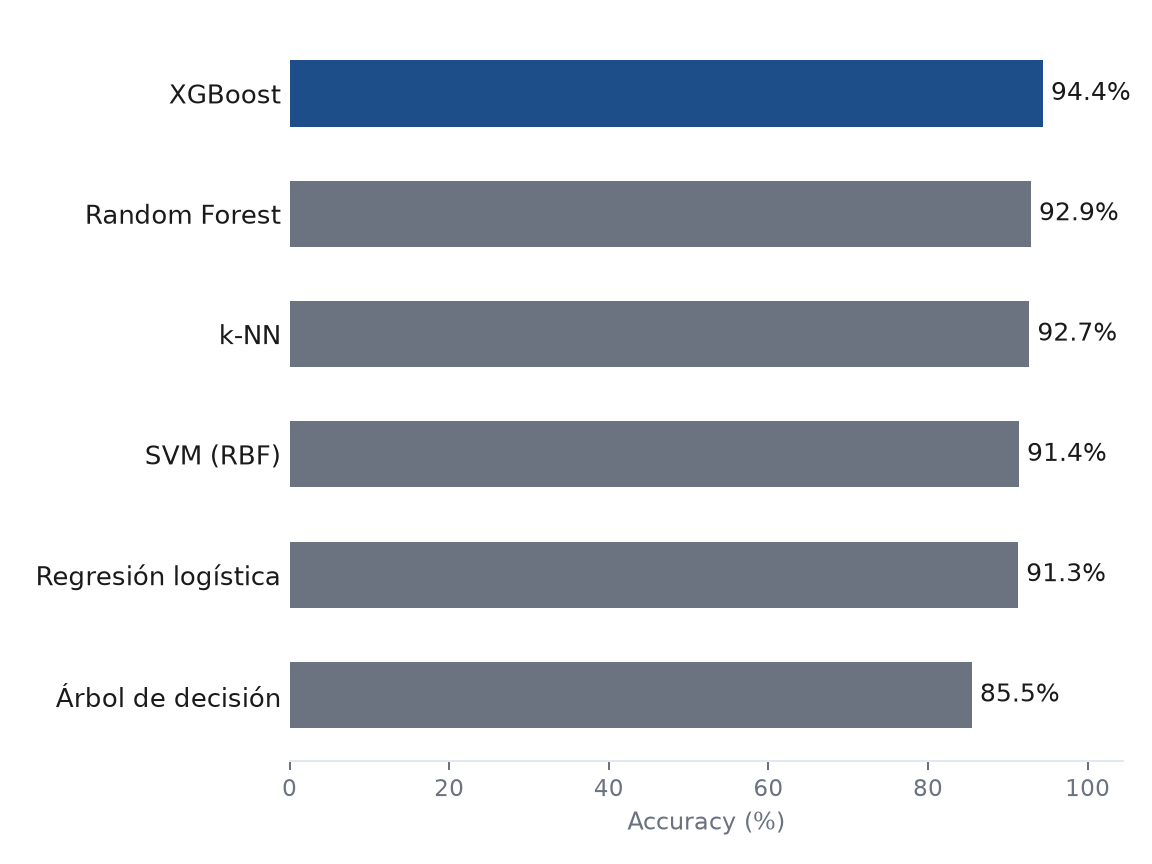
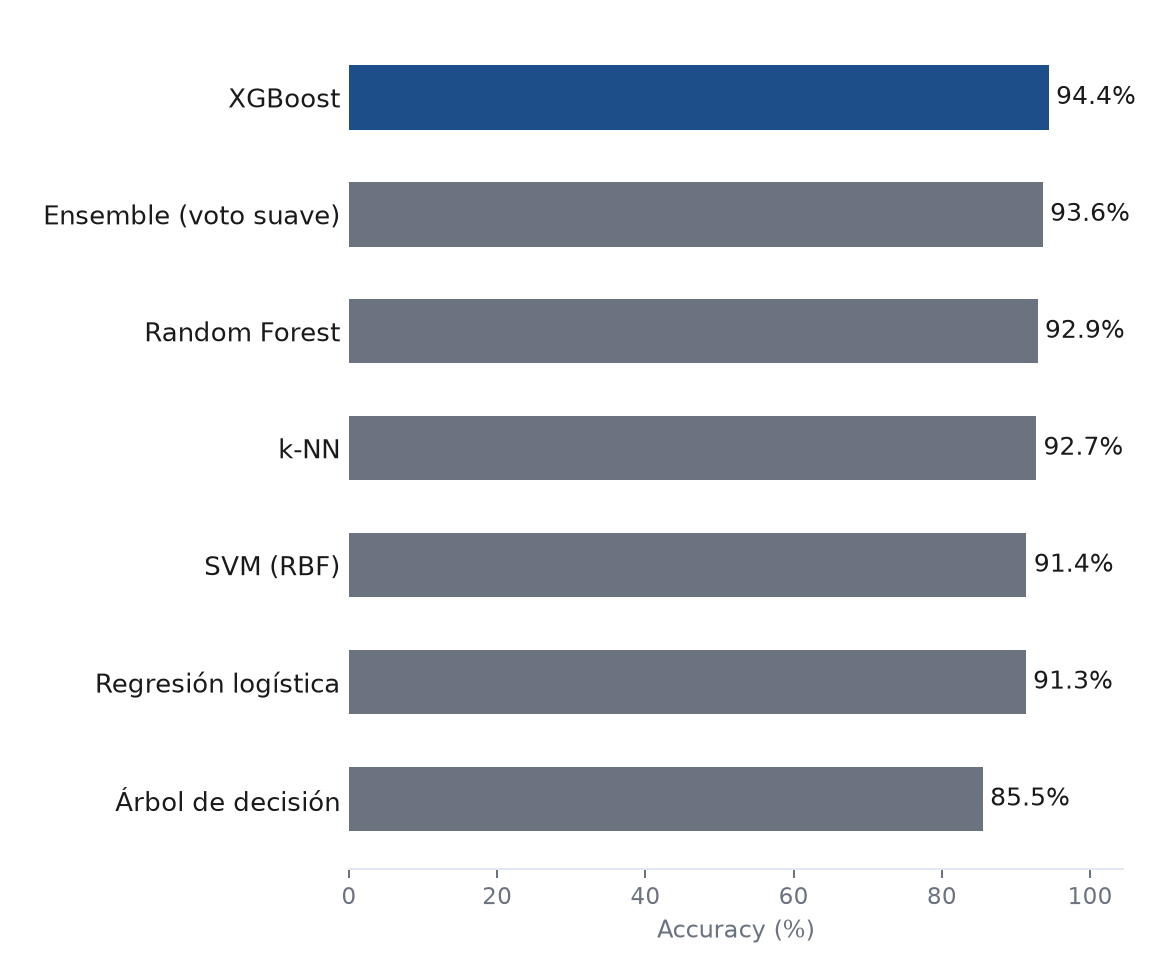
feat: add metric interpretation and ensemble analysis

diff --git a/posts/clasificacion-histologia-colorrectal/crc-histologia.css b/posts/clasificacion-histologia-colorrectal/crc-histologia.css
@@ -394,6 +394,38 @@
   color: var(--crc-body);
 }
 
+/* ---------- Definiciones de métricas ---------- */
+
+.crc-metric-defs {
+  display: grid;
+  grid-template-columns: repeat(4, 1fr);
+  gap: 0.8rem;
+  max-width: 640px;
+  margin: 0 auto 2.5rem;
+}
+
+.crc-metric-def {
+  padding: 0.7rem 0.6rem;
+  background: var(--crc-surface);
+  border: 1px solid var(--crc-line);
+  border-radius: 8px;
+}
+
+.crc-metric-def__term {
+  display: block;
+  font-size: 0.72rem;
+  font-weight: 600;
+  color: var(--crc-blue);
+  margin-bottom: 0.25rem;
+}
+
+.crc-metric-def p {
+  font-size: 0.8rem;
+  line-height: 1.5;
+  color: var(--crc-body);
+  margin: 0;
+}
+
 /* ---------- Lo importante ---------- */
 
 .crc-conclusions {
@@ -448,7 +480,7 @@
 
 .crc-next-steps {
   display: grid;
-  grid-template-columns: repeat(3, 1fr);
+  grid-template-columns: repeat(2, 1fr);
   gap: 1.2rem;
   max-width: 860px;
   margin: 0 auto 2rem;
@@ -484,7 +516,8 @@
     row-gap: 1.3rem;
   }
 
-  .crc-switcher__metrics {
+  .crc-switcher__metrics,
+  .crc-metric-defs {
     grid-template-columns: repeat(2, 1fr);
   }
 

diff --git a/posts/clasificacion-histologia-colorrectal/crc-metrics.js b/posts/clasificacion-histologia-colorrectal/crc-metrics.js
@@ -11,6 +11,15 @@ const CRC_METRICS = {
       "f1_macro": 0.9442
     },
     {
+      "id": "ensemble",
+      "label": "Ensemble (voto suave)",
+      "description": "Promedia las probabilidades de XGBoost, Random Forest, SVM (RBF) y regresión logística, y elige la clase con mayor probabilidad promedio. Combina modelos que cometen errores distintos entre sí.",
+      "accuracy": 0.936,
+      "precision_macro": 0.9372,
+      "recall_macro": 0.936,
+      "f1_macro": 0.936
+    },
+    {
       "id": "rf",
       "label": "Random Forest",
       "description": "Combina muchos árboles de decisión entrenados sobre subconjuntos distintos de datos y características. Suele generalizar mejor que un árbol individual.",

diff --git a/posts/clasificacion-histologia-colorrectal/analysis/train_models.py b/posts/clasificacion-histologia-colorrectal/analysis/train_models.py
@@ -51,6 +51,10 @@ from matplotlib.colors import LinearSegmentedColormap
 RANDOM_STATE = 42
 TEST_SIZE = 0.20
 
+# Override manual: si el ensemble gana pero la mejora es marginal, fijar en "xgb"
+# para mantener la matriz de confusión y el pie de figura existentes.
+CONFUSION_MATRIX_MODEL_ID: str | None = None  # None = usar best_id automáticamente
+
 DATA_ROOT = (
     Path.home()
     / ".cache"
@@ -110,6 +114,12 @@ MODEL_DESCRIPTIONS = {
         "XGBoost",
         "Construye árboles de decisión de forma secuencial, corrigiendo los errores de "
         "los anteriores. Suele ofrecer un desempeño competitivo con ajuste mínimo.",
+    ),
+    "ensemble": (
+        "Ensemble (voto suave)",
+        "Promedia las probabilidades de XGBoost, Random Forest, SVM (RBF) y regresión "
+        "logística, y elige la clase con mayor probabilidad promedio. Combina modelos "
+        "que cometen errores distintos entre sí.",
     ),
 }
 
@@ -377,14 +387,93 @@ def main():
             f"({time.time() - t0:.1f}s)"
         )
 
+    # --- Ensemble (voto suave): XGBoost + Random Forest + SVM(RBF) + LogReg ---
+    # Reusa los pipelines YA AJUSTADOS de xgb/rf/logreg (mismo split, sin reentrenar).
+    # SVM necesita una instancia NUEVA y SEPARADA con probability=True: la fila
+    # "svm" del comparativo (SVC(probability=False), sin cambios) NO se toca.
+    print("Entrenando SVM auxiliar (probability=True) solo para el ensemble…")
+    svm_for_ensemble = Pipeline(
+        [
+            ("scaler", StandardScaler()),
+            ("clf", SVC(kernel="rbf", random_state=RANDOM_STATE, probability=True)),
+        ]
+    )
+    svm_for_ensemble.fit(X_train, y_train)
+
+    proba_xgb = models["xgb"].predict_proba(X_test)
+    proba_rf = models["rf"].predict_proba(X_test)
+    proba_logreg = models["logreg"].predict_proba(X_test)
+    proba_svm = svm_for_ensemble.predict_proba(X_test)
+
+    # Verificación de orden de clases antes de promediar columnas de probabilidad.
+    # rf/logreg/svm exponen las clases originales (strings) en .classes_, en el
+    # mismo orden que label_encoder.classes_ (ambos ordenan alfabéticamente).
+    assert list(label_encoder.classes_) == list(models["rf"].classes_)
+    assert list(label_encoder.classes_) == list(models["logreg"].classes_)
+    assert list(label_encoder.classes_) == list(svm_for_ensemble.classes_)
+    # xgb fue entrenado con labels codificadas por label_encoder, así que sus
+    # clases son enteros 0..7 — por construcción de LabelEncoder, la columna j
+    # de proba_xgb corresponde a label_encoder.classes_[j]. Se verifica esa
+    # suposición explícitamente en vez de asumirla en silencio.
+    assert list(models["xgb"].classes_) == list(range(len(label_encoder.classes_)))
+
+    proba_ensemble = (proba_xgb + proba_rf + proba_logreg + proba_svm) / 4.0
+    y_pred_ensemble = label_encoder.classes_[np.argmax(proba_ensemble, axis=1)]
+
+    results["ensemble"] = {
+        "accuracy": float(accuracy_score(y_test, y_pred_ensemble)),
+        "precision_macro": float(
+            precision_score(y_test, y_pred_ensemble, average="macro", zero_division=0)
+        ),
+        "recall_macro": float(
+            recall_score(y_test, y_pred_ensemble, average="macro", zero_division=0)
+        ),
+        "f1_macro": float(f1_score(y_test, y_pred_ensemble, average="macro", zero_division=0)),
+        "y_pred": y_pred_ensemble,
+    }
+    print(f"  ensemble: accuracy={results['ensemble']['accuracy']:.4f}")
+
     best_id = max(results, key=lambda k: results[k]["accuracy"])
     print(f"Mejor modelo: {best_id} ({results[best_id]['accuracy']:.4f} accuracy)")
+
+    xgb_acc = results["xgb"]["accuracy"]
+    ens_acc = results["ensemble"]["accuracy"]
+    delta_pp = (ens_acc - xgb_acc) * 100
+    if best_id == "ensemble":
+        marginal = abs(delta_pp) < 1.0
+        print(
+            f"\n>>> EL ENSEMBLE SUPERA A XGBOOST: {ens_acc:.4f} vs {xgb_acc:.4f} "
+            f"(+{delta_pp:.2f} pp). CASO 'GANA'.\n"
+            "    Acciones manuales requeridas en index.qmd:\n"
+            "    - Hero #crc-hero-result -> 'Ensemble' + nueva accuracy\n"
+            "    - Prosa de ## Compara los modelos -> mencionar Ensemble como mejor\n"
+            "    - bestModelId ya quedó en 'ensemble' automáticamente (ver metrics.json)\n"
+            + (
+                "    - Mejora marginal (<1 pp): se recomienda mantener "
+                "CONFUSION_MATRIX_MODEL_ID='xgb' y NO tocar la matriz de confusión "
+                "ni su pie de figura."
+                if marginal
+                else "    - Mejora no marginal (>=1 pp): considerar regenerar la "
+                "matriz de confusión para el ensemble."
+            )
+        )
+    else:
+        print(
+            f"\n>>> EL ENSEMBLE NO SUPERA A XGBOOST: {ens_acc:.4f} vs {xgb_acc:.4f} "
+            f"({delta_pp:+.2f} pp). CASO 'NO GANA'.\n"
+            "    Acciones manuales requeridas en index.qmd: ninguna en hero/bestModelId/"
+            "matriz de confusión (siguen siendo XGBoost). Añadir el ensemble a la prosa "
+            "de ## Compara los modelos con redacción tipo 'aunque el ensemble no superó "
+            "al mejor modelo individual...'.\n"
+        )
 
     class_order = list(CLASS_MAP.values())  # [(id, label), ...] en orden 01..08
     class_ids = [c[0] for c in class_order]
     class_labels = [c[1] for c in class_order]
 
-    cm = confusion_matrix(y_test, results[best_id]["y_pred"], labels=class_ids)
+    cm_model_id = CONFUSION_MATRIX_MODEL_ID or best_id
+    print(f"Matriz de confusión generada para: {cm_model_id}")
+    cm = confusion_matrix(y_test, results[cm_model_id]["y_pred"], labels=class_ids)
     plot_confusion(cm, class_labels, IMAGES_DIR / "crc-confusion-matrix.png")
     plot_comparison(
         {k: v for k, v in results.items()}, best_id, IMAGES_DIR / "crc-model-comparison.png"
